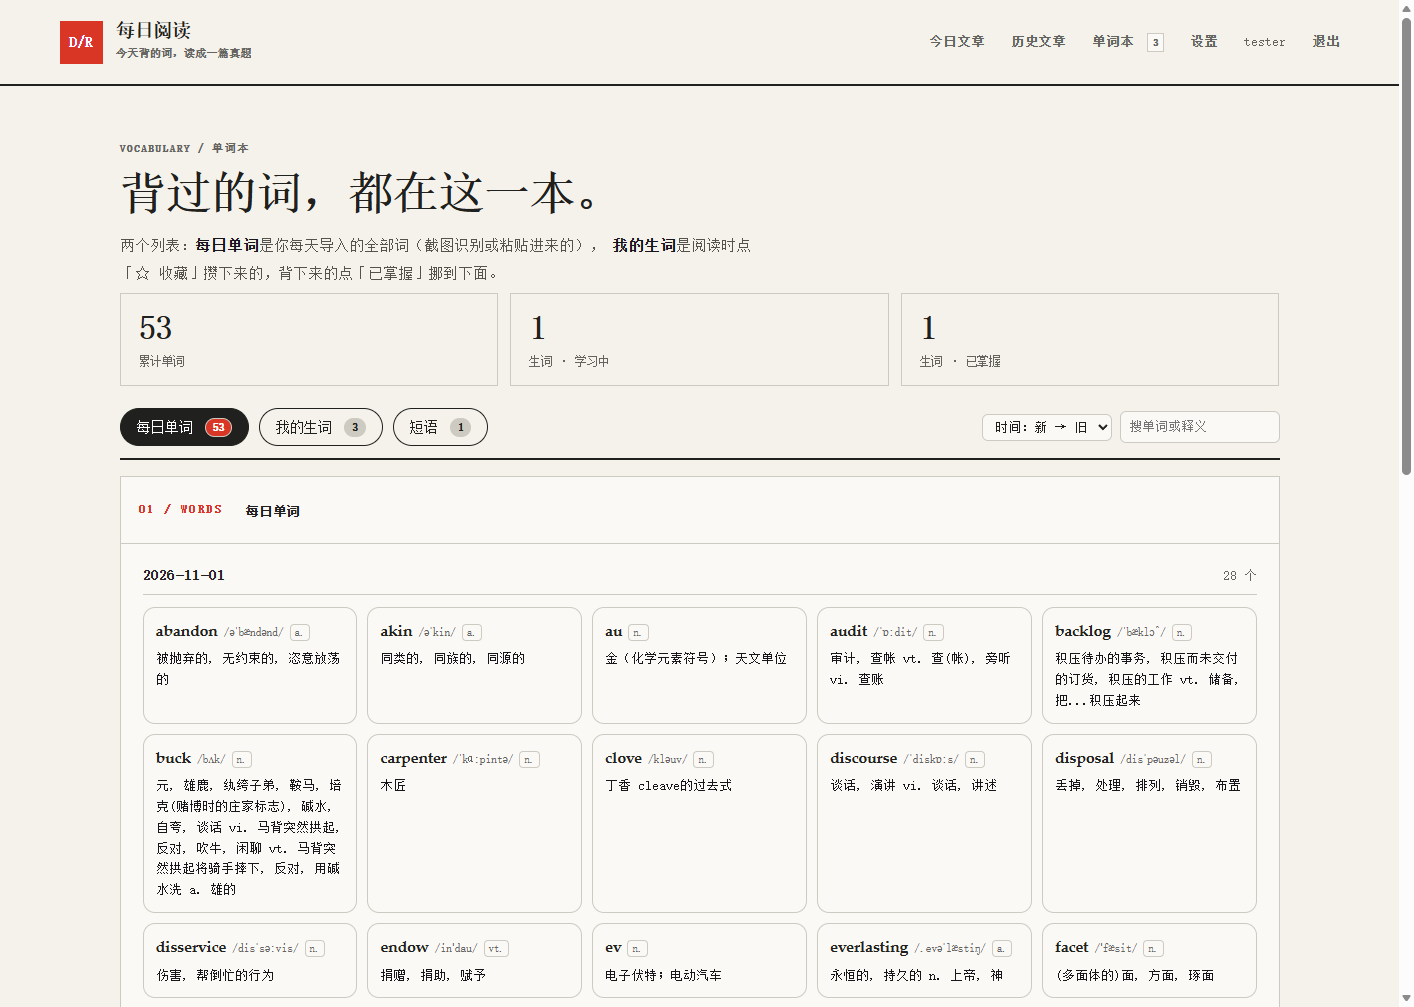
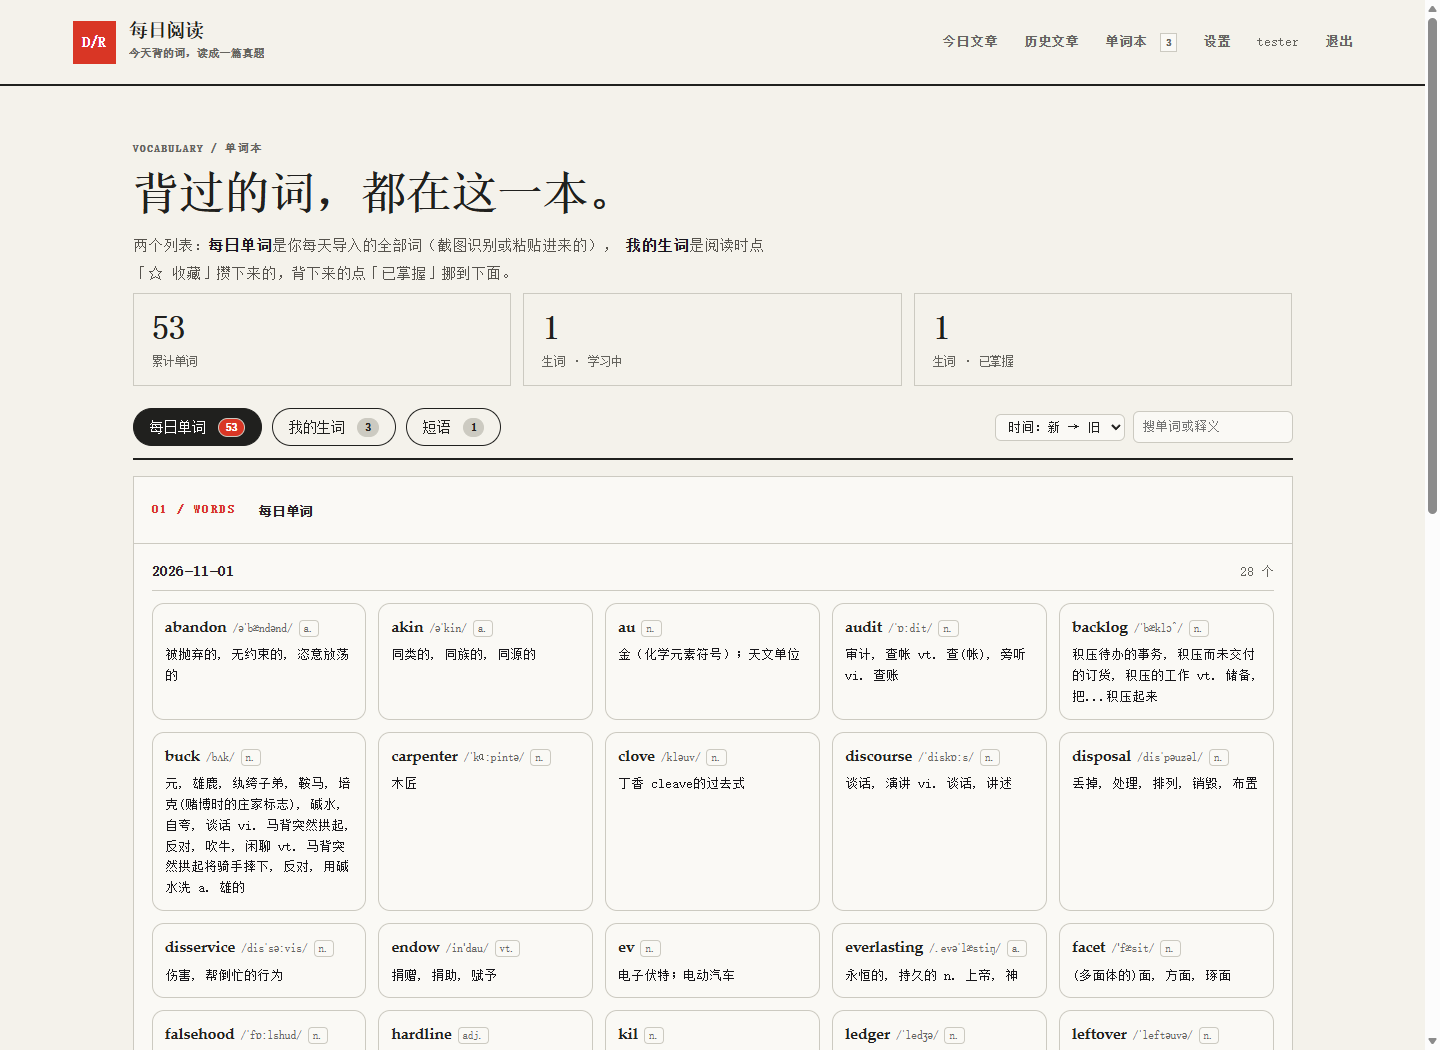
style: 单词本卡片与面板边框之间留出间距
- .panel 的 padding 是 0，卡片容器（#dayList / #markList / #phraseList）直接顶到边框上，看起来像连在一起
- 给这三个容器加 16px 18px 20px，和 .panel-head 的水平 18px 对齐
- 卡片间距 vcards 10→12px、mark-cards 12→14px
- 顺带重截 vocab / vocab-mine / dark-vocab / dark-vocab-mine 四张图

diff --git a/src/main/resources/static/css/bauhaus.css b/src/main/resources/static/css/bauhaus.css
@@ -1811,3 +1811,16 @@ main .settings-panel .settings-note { margin: 0 0 16px; }
 .theme-btn.active .theme-dot { border-color: currentColor; }
 .theme-btn.active .dot-light { background: #f4f2eb; }
 .theme-btn.active .dot-dark { background: #16150f; }
+
+/* ---------- 覆盖：单词卡别贴着面板边框 ---------- */
+/* .panel 的 padding 是 0，卡片容器原来直接顶到边框上；这里和 .panel-head 的 18px 对齐 */
+.vocab-main .panel > .day-list,
+.vocab-main .panel > .mark-cards,
+.vocab-main .panel > .empty-hint {
+  padding: 16px 18px 20px;
+}
+/* 卡片之间再松一点 */
+.vocab-main .vcards { gap: 12px; }
+.vocab-main .mark-cards { gap: 14px; }
+/* 生词页的「学习中 / 已掌握」小节标题也别顶边 */
+.vocab-main .mk-sec-head { padding: 0 0 2px; }
